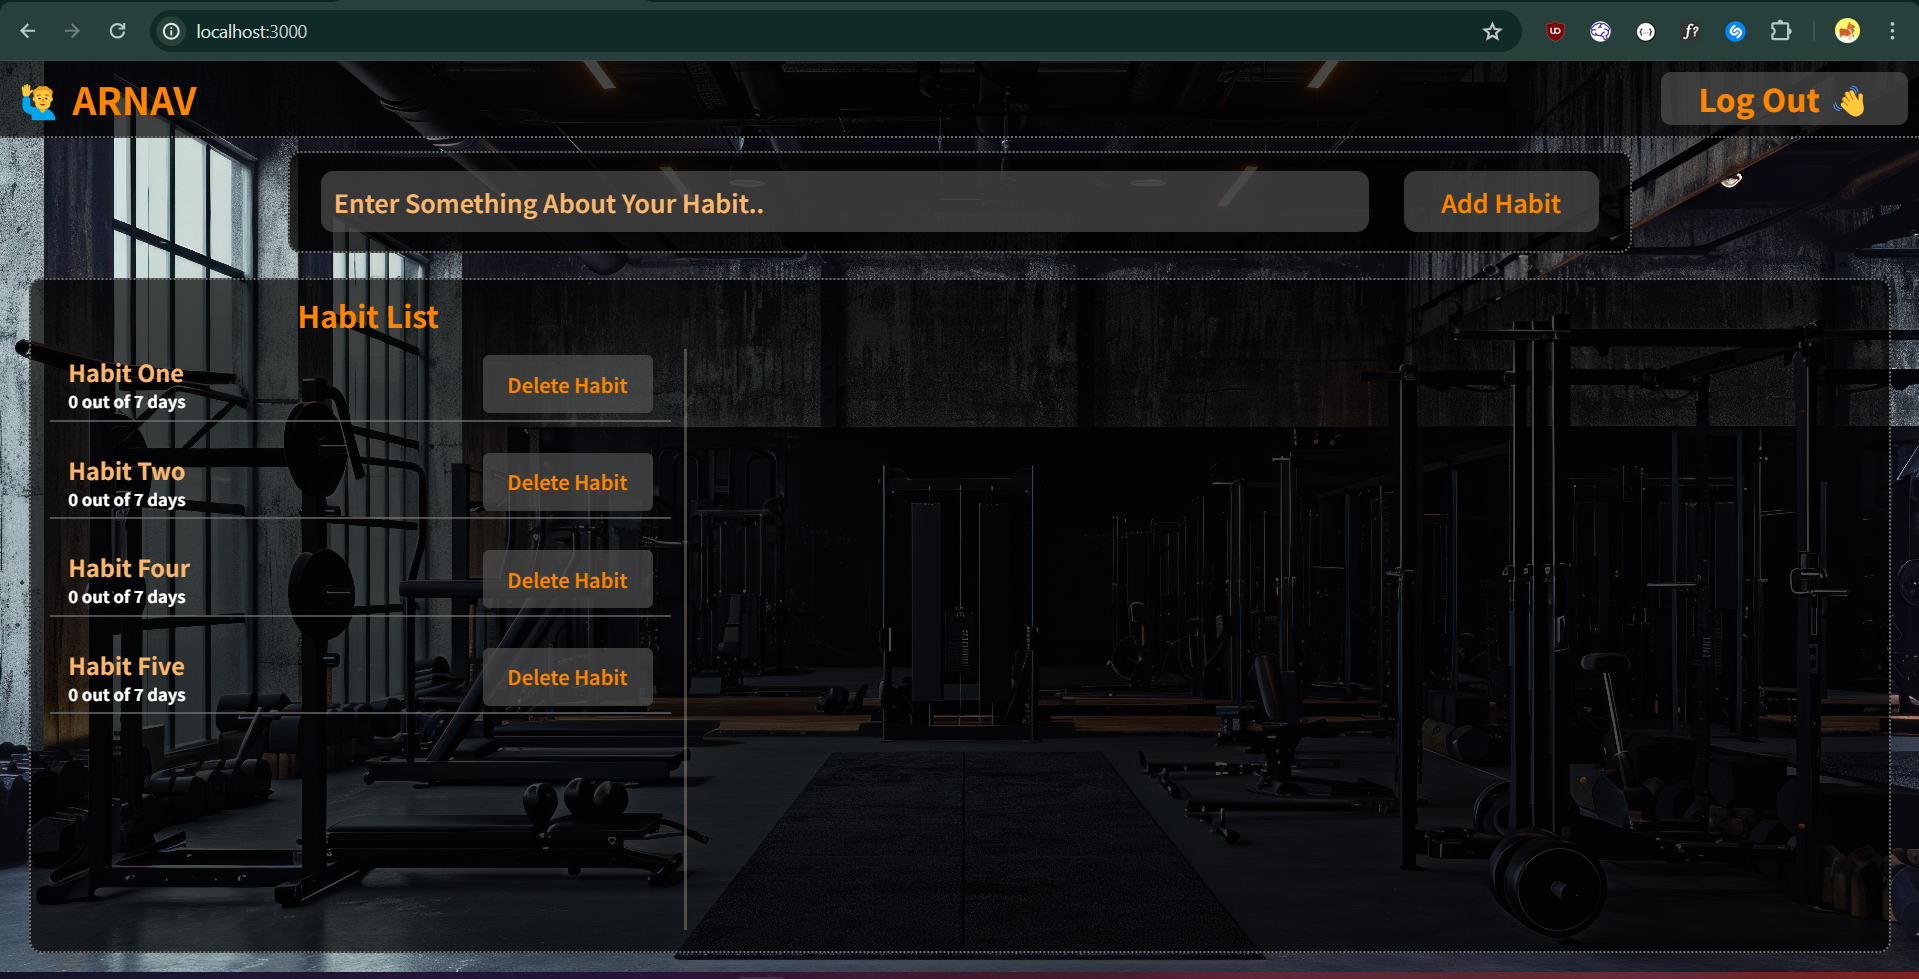
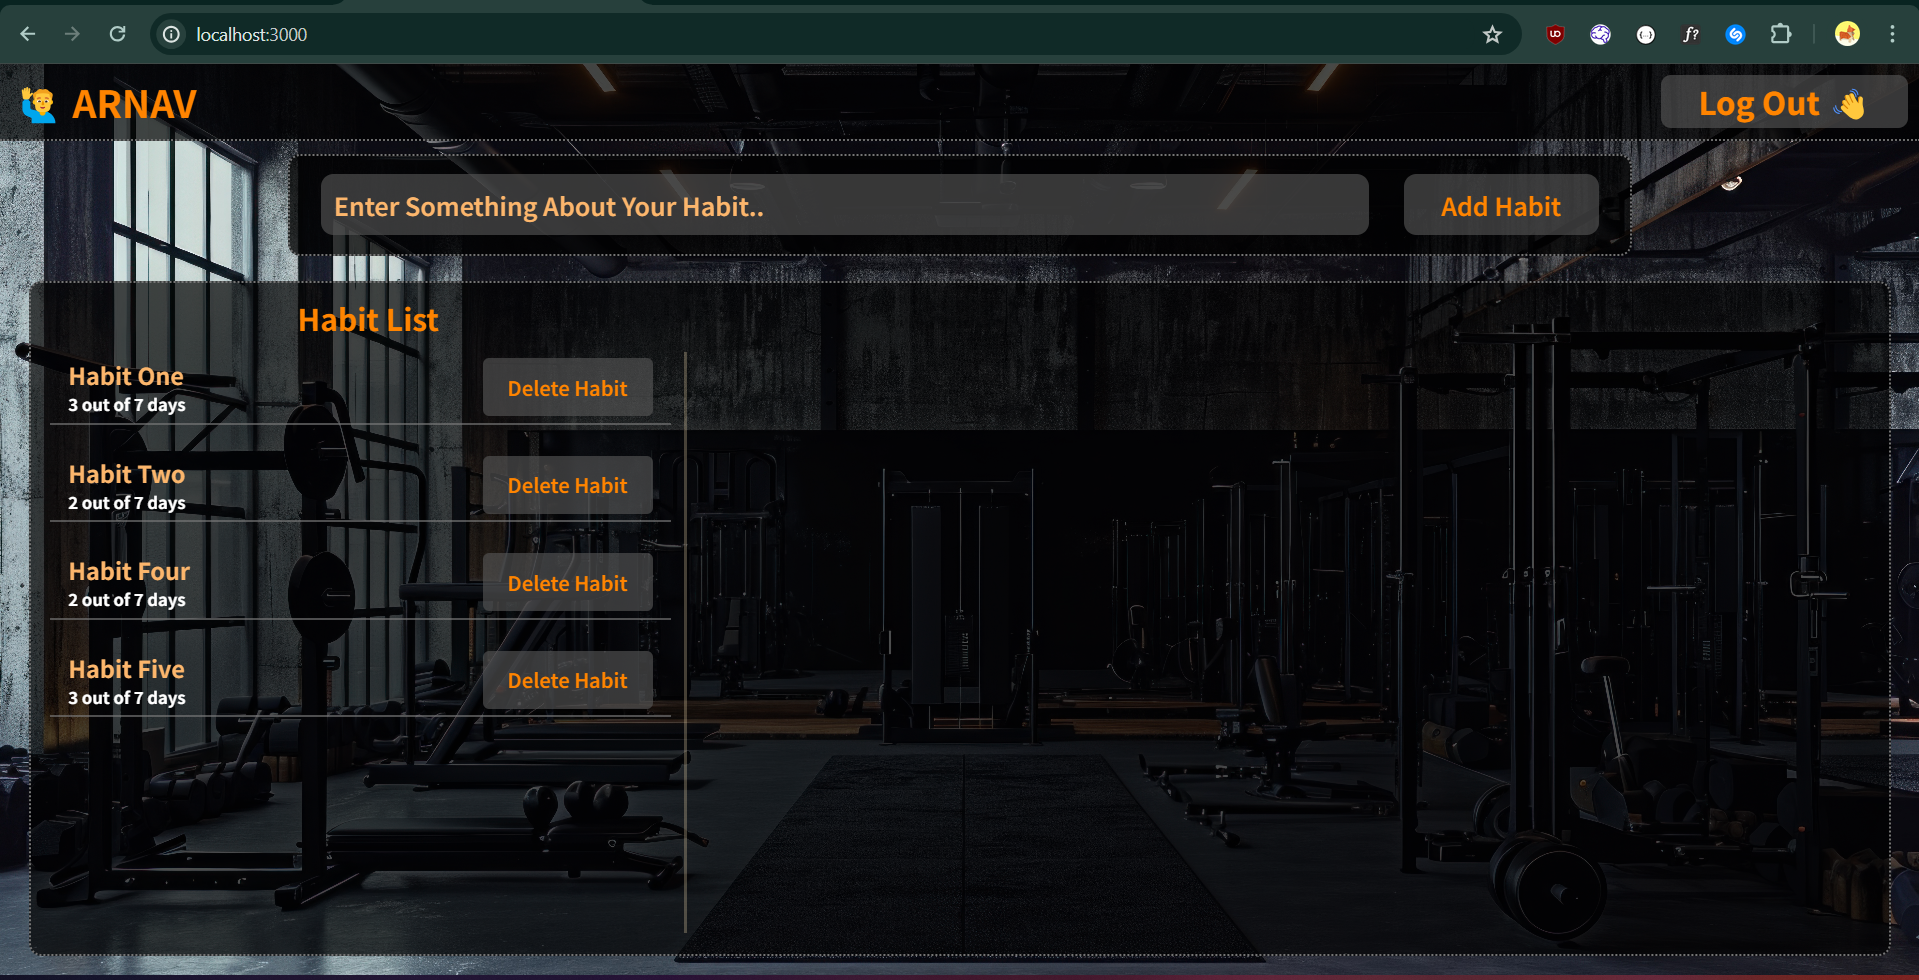
Added the days counter functionality (x out of y days display below habit name)

diff --git a/controllers/landing_page_controller.js b/controllers/landing_page_controller.js
@@ -1,5 +1,6 @@
 const User = require('../models/users')
 const Habit = require('../models/habits');
+const HabitPerDay = require('../models/habit_per_day');
 //below controllers will be used to render the landing page which will include the account login or creation option--
 
 module.exports.landing = async (req, res) => {
@@ -7,15 +8,31 @@ module.exports.landing = async (req, res) => {
         return res.render('landing');
 
     //Lets fetch the habit list from mongoDB..
-    let habitList = [];
+    let habitList = "";
+    let habitCount = {};
     try {
         habitList = await Habit.find({ email: req.user.email });
-        // console.log(habitList);
+        //Below functionality is being used to count the number of days the habit is done compared to total days.
+        let habitStatusPromise = habitList.map(async (habit) => {
+            return HabitPerDay.find({ habit: habit['_id']});
+        })
+        let habitStatuses = await Promise.all(habitStatusPromise);
+        habitStatuses.forEach((habit) => {
+            let id = habit[0].habit;
+            let total = habit.length;
+            let count = 0;
+            habit.forEach(habitStatus => {
+                if(habitStatus.status == "Done")
+                    count++;
+            })
+            habitCount[id] = {'totalDays': total, 'doneDays': count};
+        });
+        // console.log(habitCount);
     } catch (err) {
         console.log("Error caused while fetching habit list for logged in user -- ", err);
     }
 
-    res.render('homepage', { username: req.user.name.toUpperCase(), habitList: habitList });
+    res.render('homepage', { username: req.user.name.toUpperCase(), habitList: habitList, habitCount: habitCount });
 }
 
 module.exports.loginUser = (req, res) => {
